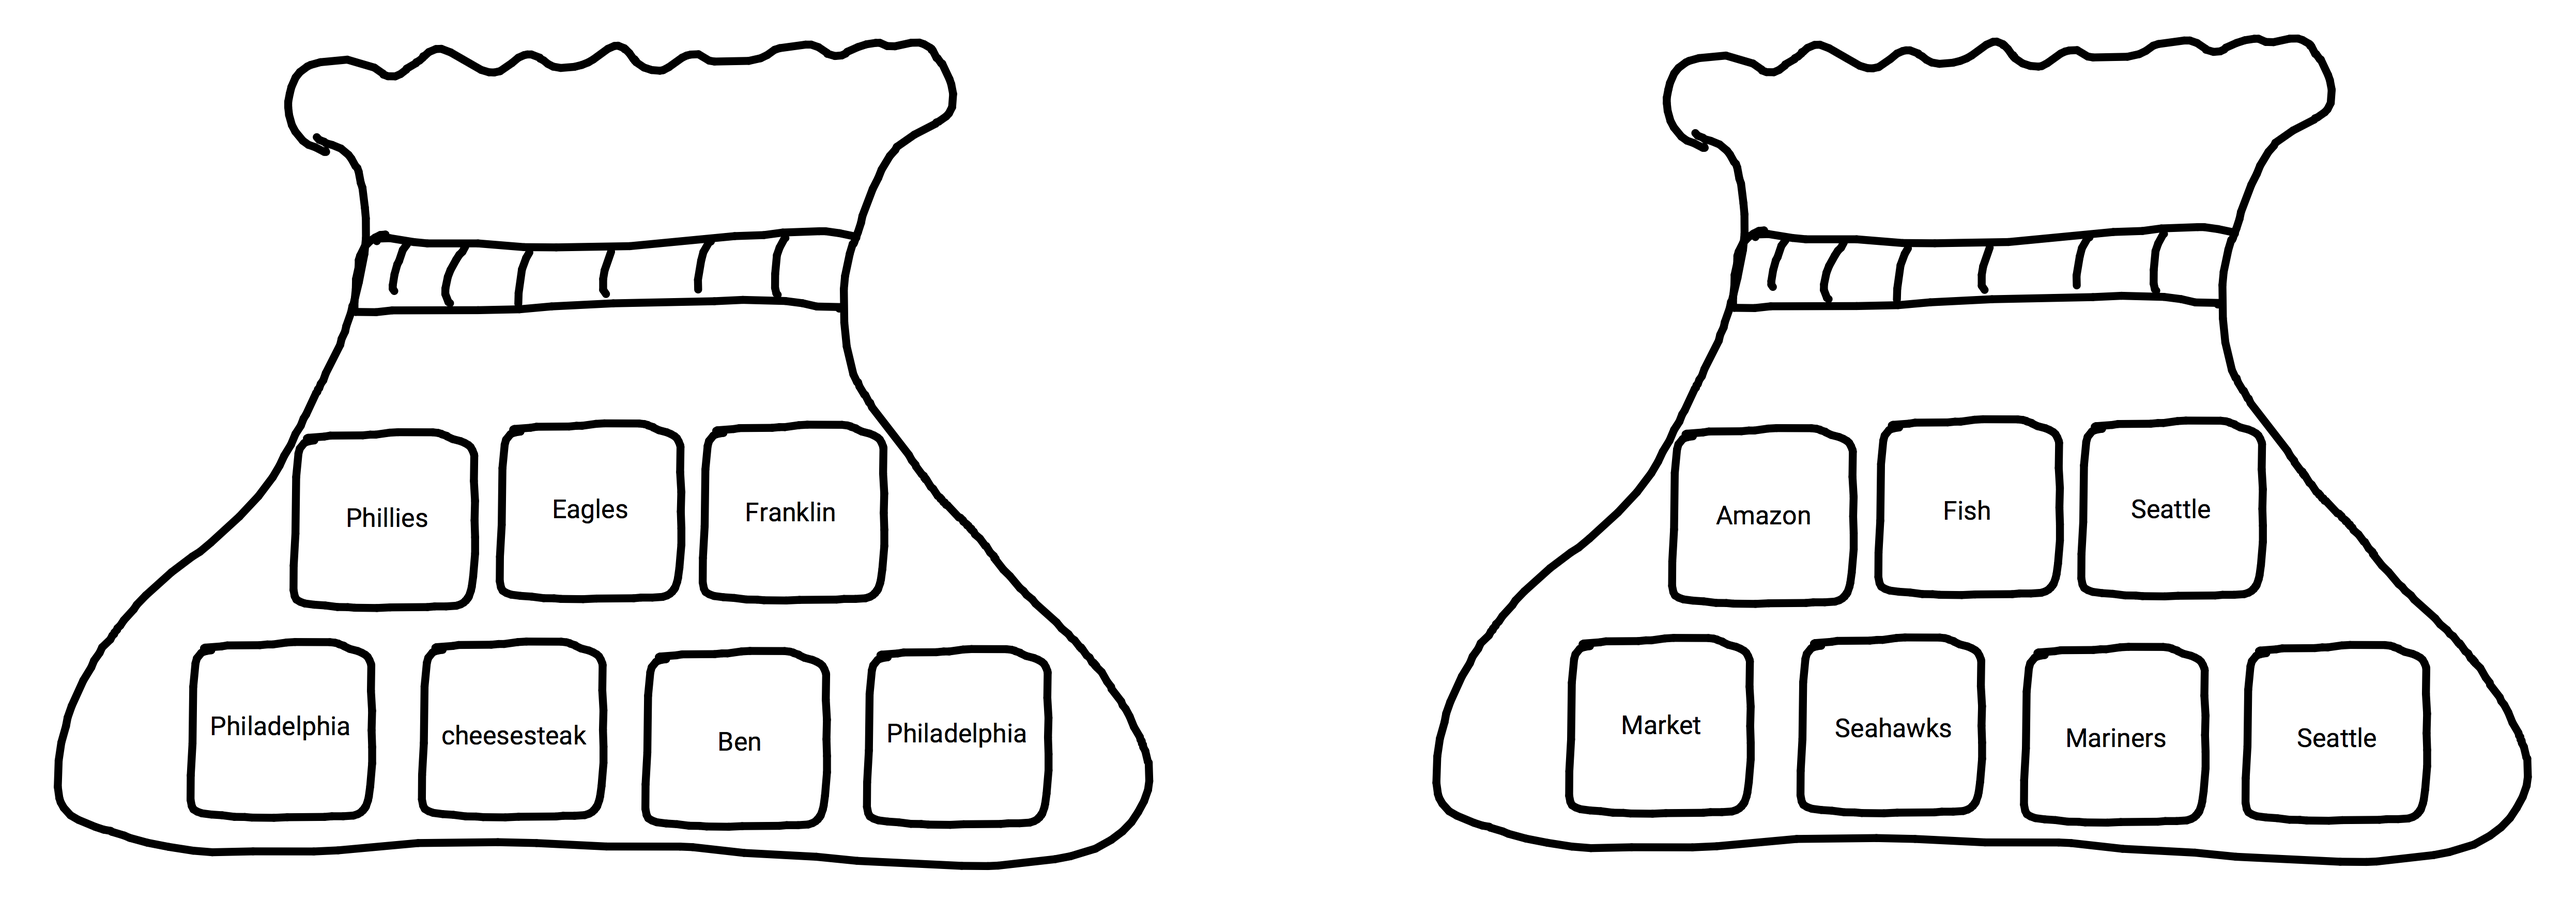
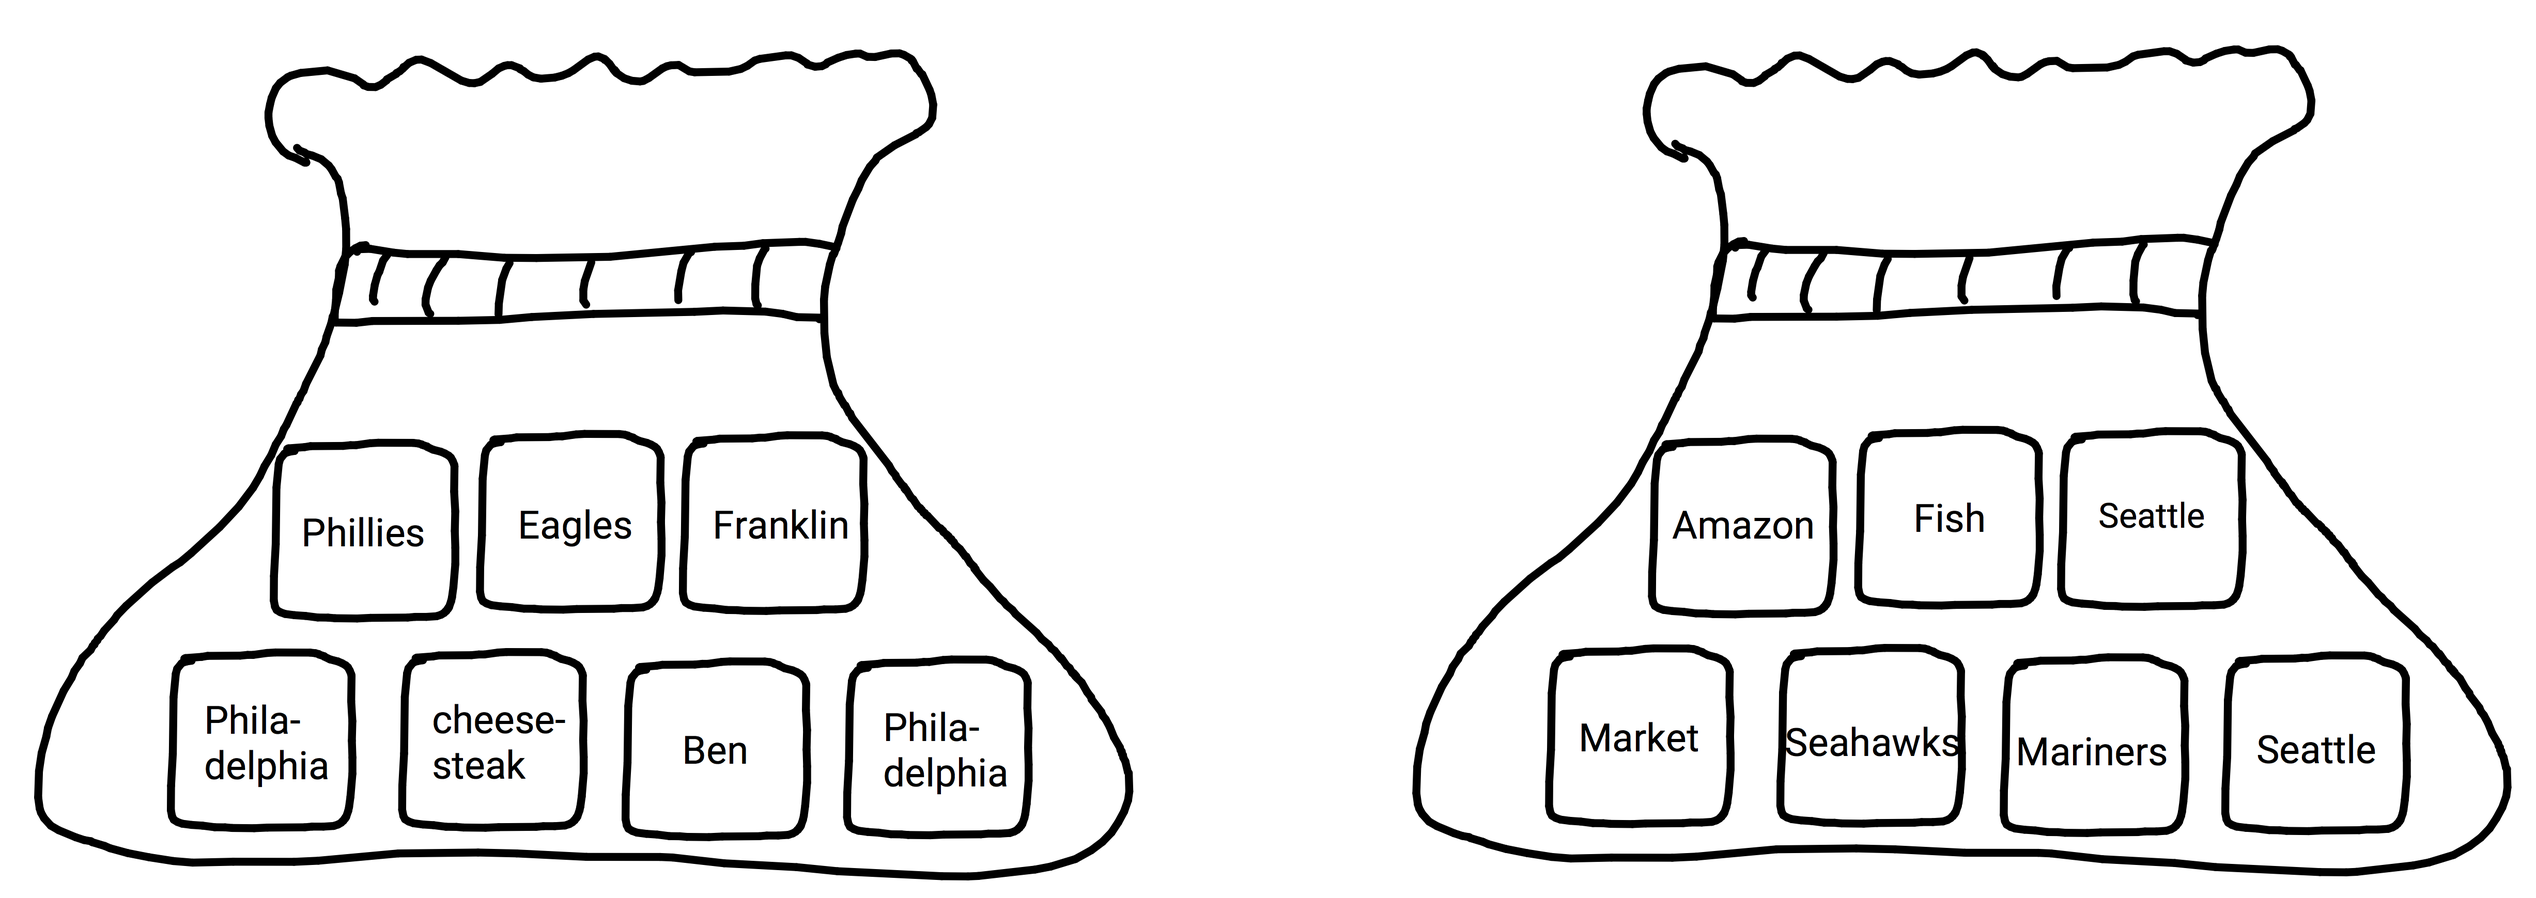
updated BOW graphic,ch1

Changed region(s): [[0.5611, 0.0311, 0.9976, 0.9937], [0.0, 0.0311, 0.4676, 0.9937], [0.4364, 0.9005, 0.4676, 0.9316]]

diff --git a/docs/what-is-lda.html b/docs/what-is-lda.html
@@ -185,7 +185,7 @@ code > span.in { color: #60a0b0; font-weight: bold; font-style: italic; } /* Inf
 <div id="what-is-lda" class="section level1">
 <h1><span class="header-section-number">1</span> What is LDA?</h1>
 <p>Latent Dirichlet Allocation (LDA) is a generative probablistic model for collections of discrete data developed by Blei, Ng, and Jordan. <span class="citation">(Blei, Ng, and Jordan <a href="references.html#ref-blei2003latent">2003</a>)</span> The most common use of LDA is for modeling of collections of text, also known as <em>topic modeling</em>.</p>
-<p>A topic is a probability distribution over words.<span class="citation">(Steyvers and Griffiths <a href="references.html#ref-steyvers2007probabilistic">2007</a>)</span> Imagine you have a bag that has a bunch of little squares in it with a word printed on each (similar to the game Scrabble, but a word on each chip instead of a single letter). Any word not in the bag has a probability of being drawn equal to zero. However, all other words in the bag have a probability greater than zero. Let’s say we have 2 chips with the word ‘philadelphia’ and 1 with the word ‘eagles’ on it. We would say you have a 1/3 chance of drawing ‘eagles’, 2/3 chance of drawing ‘philadelphia’, and 0 for any other word. This is effectively what a topic is; it provides us with the probabilities of a set of words for the given topic.</p>
+<p>A topic is a probability distribution over words.<span class="citation">(Steyvers and Griffiths <a href="references.html#ref-steyvers2007probabilistic">2007</a>)</span> Imagine you have a bag that has a bunch of little squares in it with a word printed on each (similar to the game Scrabble, but a word on each chip instead of a single letter). Any word not in the bag has a probability of being drawn equal to zero. However, all other words in the bag have a probability greater than zero. Let’s say we have 2 chips with the word ‘Philadelphia’ and 1 with the word ‘Eagles’ on it. We would say you have a 1/3 chance of drawing ‘Eagles’, 2/3 chance of drawing ‘Philadelphia’, and 0 for any other word. This is effectively what a topic is; it provides us with the probabilities of a set of words for the given topic.</p>
 <div class="figure" style="text-align: center"><span id="fig:BOWScrabble"></span>
 <img src="Images/BOW_scrabble.png" alt="Topic Scrabble: Philadelphia and Seattle" width="75%" height="75%" />
 <p class="caption">
